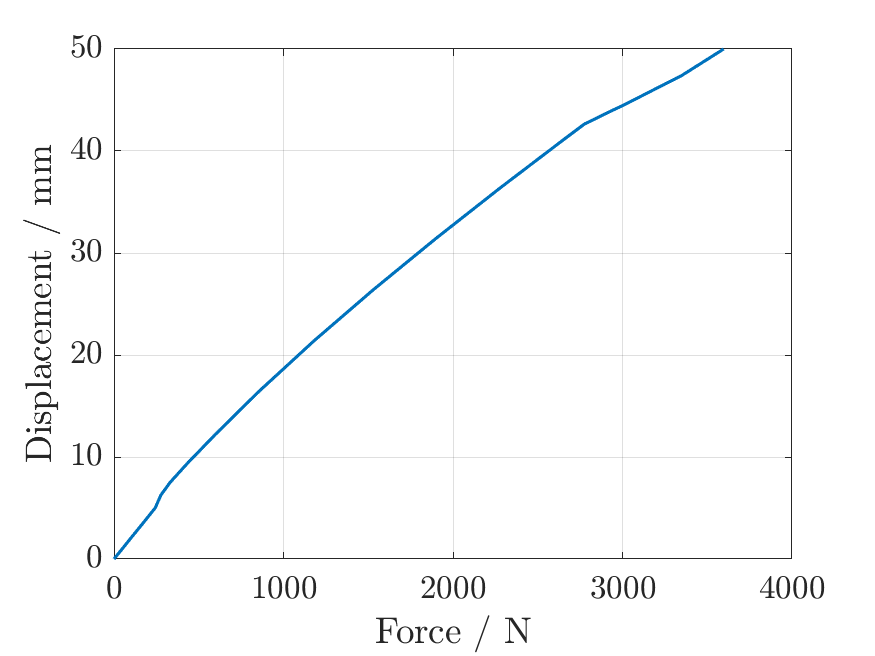
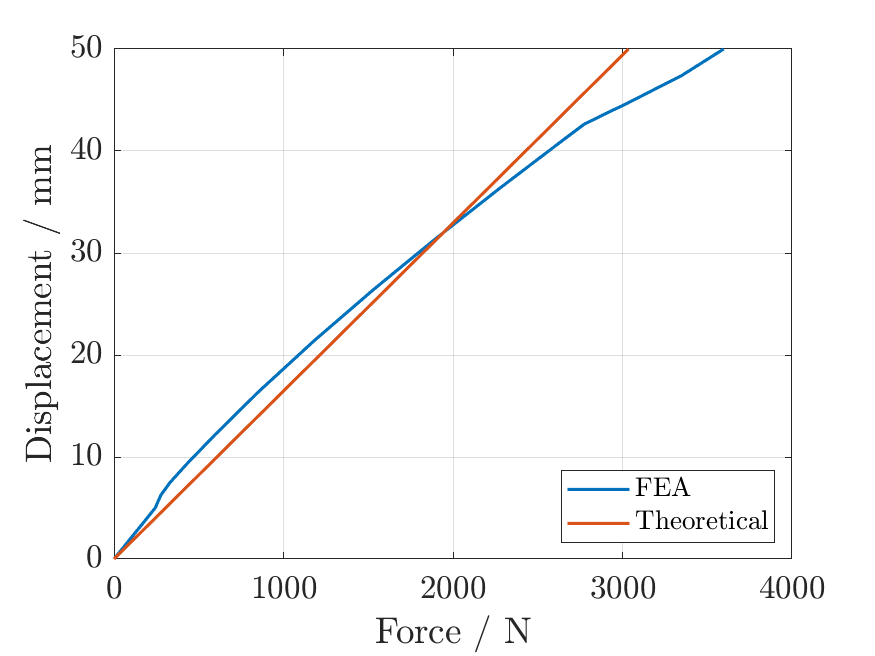
FD plots

diff --git a/Monocoque/Side_Impact_Structure/FDPlotter.m b/Monocoque/Side_Impact_Structure/FDPlotter.m
@@ -12,20 +12,22 @@ load(matName)
 x = ThreePointBend.TestData(:,1)
 y = ThreePointBend.TestData(:,2)
 
+x_theory = [0 3036]
+y_theory = [0 50]
+
 
 XYPlot = figure;
 plot(x,y)
 hold on
+plot(x_theory,y_theory)
 xlabel(xLab)
 ylabel(yLab)
 hold off
 betterPlot(XYPlot)
-legend("off")
+legend('FEA','Theoretical',Location='southeast')
 saveas(XYPlot, figName)
 
 %% Area under
 area = trapz(x,y) * 1e-3
-
-%% Calculating the gradient (dy/dx)
 
 close all
